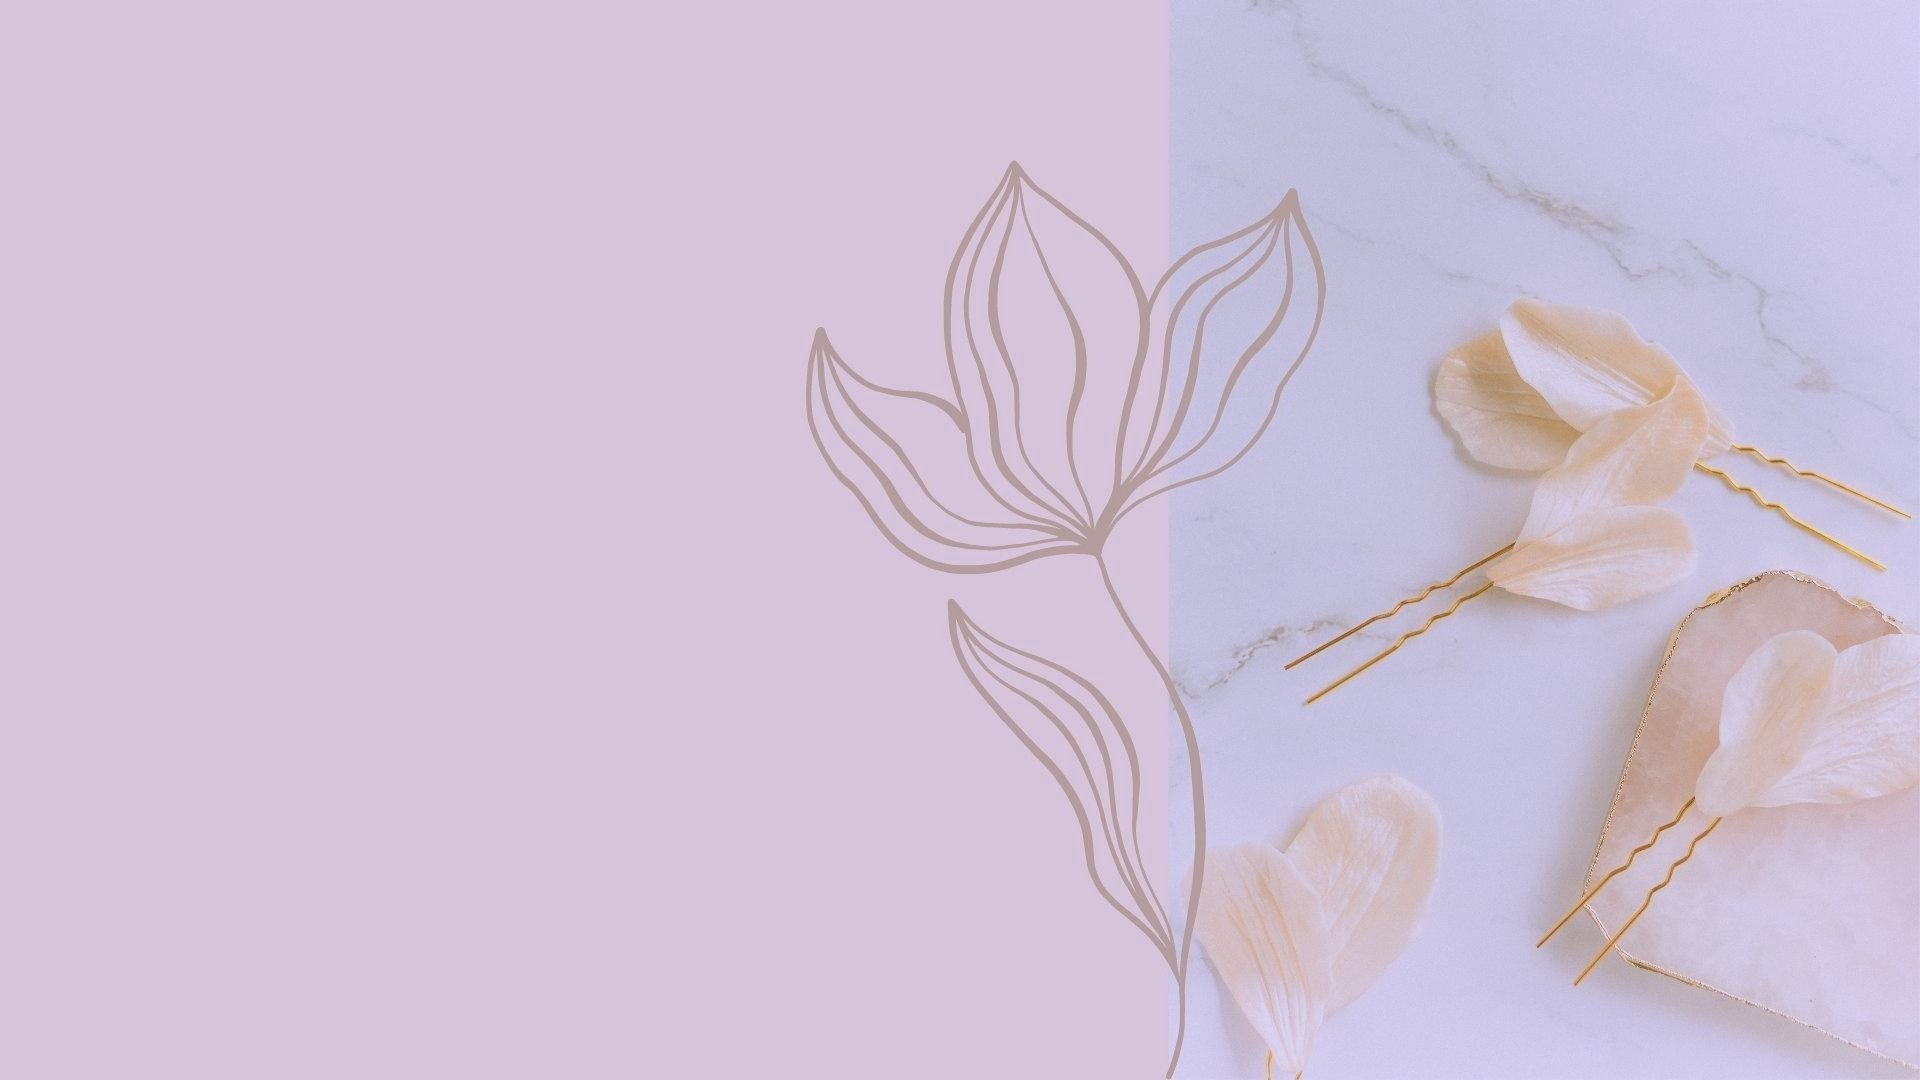
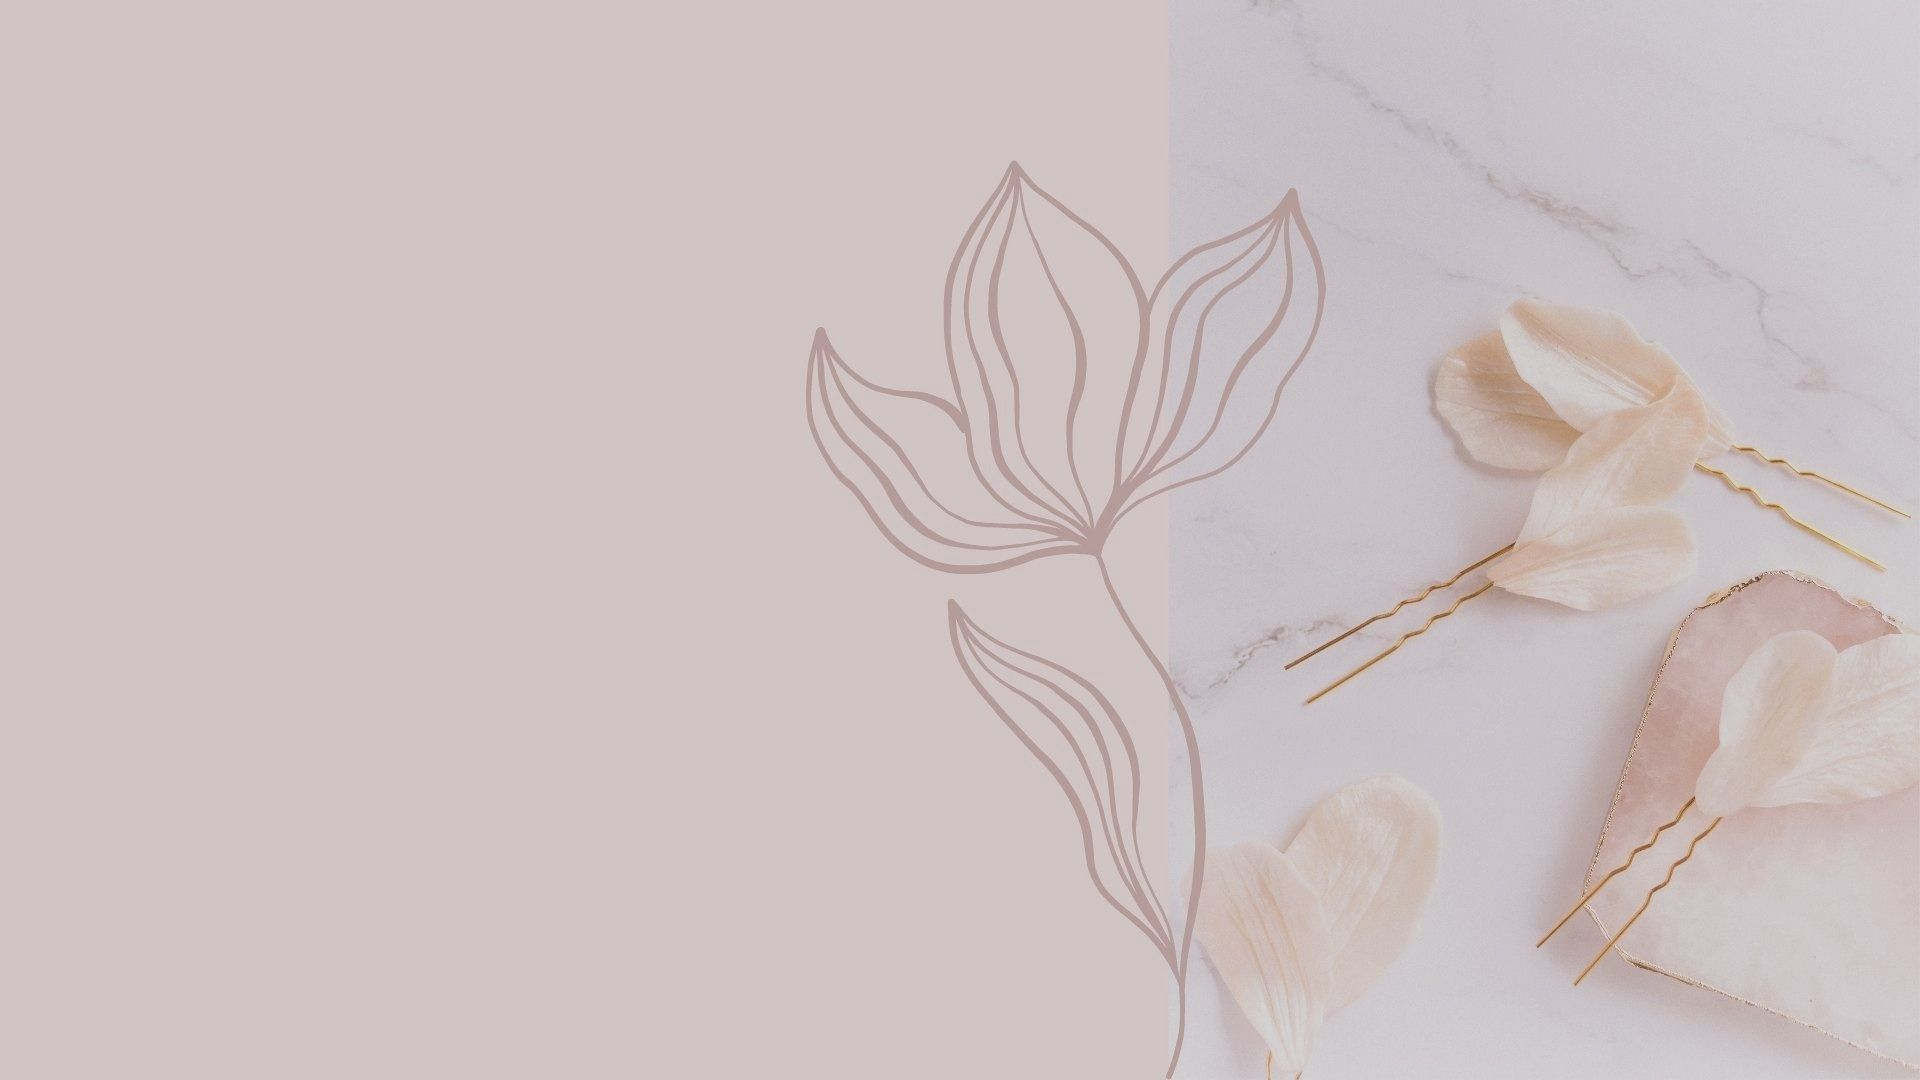
Some Changes in Theming

diff --git a/src/styles/DarkMode.css b/src/styles/DarkMode.css
@@ -12,13 +12,13 @@
 }
 
 [data-theme="dark"] {
-    --font-color: #bcaca5;
-    --background-color: #292a2c;
+    --font-color: black;
+    --background-color: #68483f;
     --background-nav: #68483f;
-    --link-color: #bcaca5;
+    --link-color: black;
     --font-primary: 'Playfair Display';
     --font-secondary: 'Lato';
-    --hero: url('../../assets/flower.jpg')
+    --hero: url('../../assets/dark.jpg')
 }
 
 body {

diff --git a/src/styles/Hero.css b/src/styles/Hero.css
@@ -14,6 +14,7 @@
   padding-top: 6%;
   padding-right: 65%;
   font-size: x-large;
+  color: #68483f;
 }
 
 @media only screen and (max-width: 800px) {
